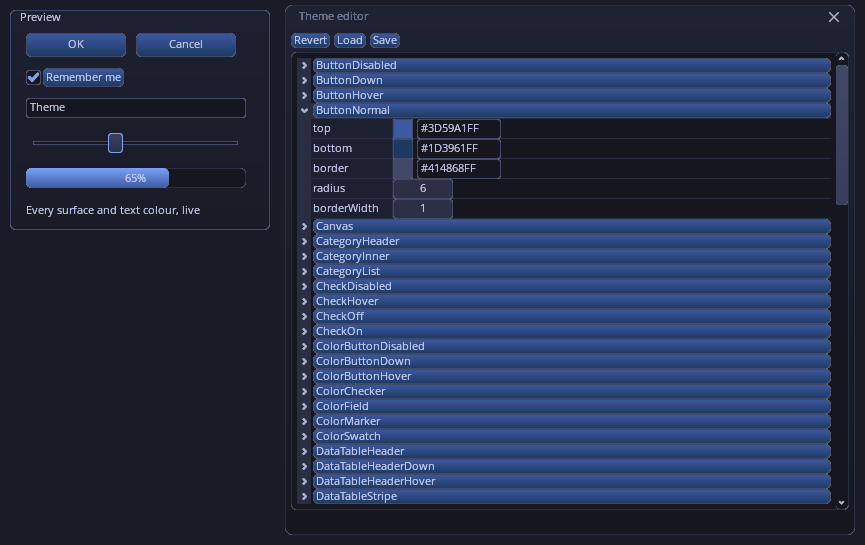
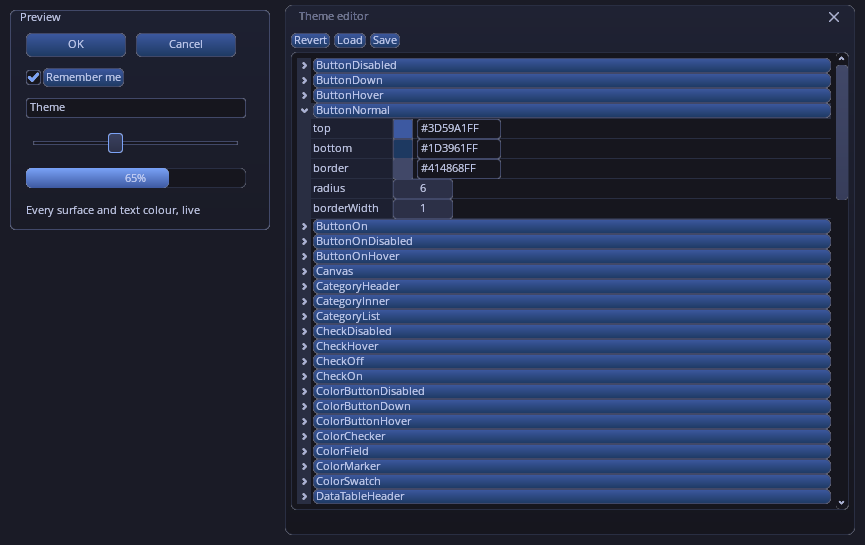
Textured Button: draw an on toggle with ButtonOn / ButtonOnHover / ButtonOnDisabled
ButtonTemplate<>::update never read the toggle state, so an on toggle
painted ButtonNormal, as an off one does. It now picks, in order:
disabled (ButtonOnDisabled when on), pressed (ButtonDown), on
(ButtonOnHover when hovered), hovered, normal. On means isToggle() &&
getToggleState(), so plain buttons and LabelClickable are unchanged.

The three surfaces are registered in surfaceRegistry(), so a theme can
set them and strict mode reports them. ThemeEditorDemo's sample lists
them (regenerated); every other sample is unchanged.

Changed region(s): [[0.3746, 0.4055, 0.4994, 0.9358], [0.9676, 0.3431, 0.9988, 0.3743]]

diff --git a/include/gweni/skins/textured/tokyoNight.h b/include/gweni/skins/textured/tokyoNight.h
@@ -84,6 +84,11 @@ inline Surface ButtonNormal   { SurfHi,                Surf,                  Li
 inline Surface ButtonHover    { SurfHover,             SurfHi,                Blue,  Radius, BorderW };
 inline Surface ButtonDown     { Surf,                  BgStorm,               Blue,  Radius, BorderW };
 inline Surface ButtonDisabled { BgStorm,               Color(0x1f,0x22,0x33), BgHighlight, Radius, BorderW };
+// A toggle Button that is on: an accent-tinted fill, so it reads unlike a
+// momentary press (ButtonDown); disabled, it stays on, dimmed
+inline Surface ButtonOn         { Color(0x33,0x46,0x7a), Color(0x28,0x34,0x57), Blue,  Radius, BorderW };
+inline Surface ButtonOnHover    { Color(0x3d,0x55,0x94), Color(0x31,0x42,0x6e), Blue,  Radius, BorderW };
+inline Surface ButtonOnDisabled { Color(0x2a,0x35,0x5a), Color(0x22,0x2b,0x47), Color(0x3a,0x4d,0x85), Radius, BorderW };
 
 // Text entry
 inline Surface TextBox        { BgDark,                BgDark,                Line,  RadiusSm, BorderW };
@@ -230,6 +235,7 @@ inline std::unordered_map<std::string, Surface*>& surfaceRegistry()
         {"Window",&Window},{"WindowInact",&WindowInact},{"Panel",&Panel},{"PanelDark",&PanelDark},
         {"GroupBox",&GroupBox},{"Tooltip",&Tooltip},{"StatusBar",&StatusBar},{"Canvas",&Canvas},
         {"ButtonNormal",&ButtonNormal},{"ButtonHover",&ButtonHover},{"ButtonDown",&ButtonDown},{"ButtonDisabled",&ButtonDisabled},
+        {"ButtonOn",&ButtonOn},{"ButtonOnHover",&ButtonOnHover},{"ButtonOnDisabled",&ButtonOnDisabled},
         {"TextBox",&TextBox},{"TextBoxFocus",&TextBoxFocus},{"TextBoxDisabled",&TextBoxDisabled},{"TextSelection",&TextSelection},
         {"Menu",&Menu},{"MenuStrip",&MenuStrip},{"MenuHover",&MenuHover},
         {"TabActive",&TabActive},{"TabInactive",&TabInactive},{"TabControl",&TabControl},

diff --git a/include/gweni/skins/textured/texturedControls.h b/include/gweni/skins/textured/texturedControls.h
@@ -90,11 +90,16 @@ public:
 
         controls::Button *control=static_cast<controls::Button *>(baseControl);
         const tokyonight::Surface *surface;
+        // a toggle that is on keeps its look until a press or disabling it;
+        // a plain button (LabelClickable included) is never on
+        bool on=control->isToggle() && control->getToggleState();
 
         if(control->isDisabled())
-            surface=&tokyonight::ButtonDisabled;
+            surface=on?&tokyonight::ButtonOnDisabled:&tokyonight::ButtonDisabled;
         else if(control->isDepressed())
             surface=&tokyonight::ButtonDown;
+        else if(on)
+            surface=control->isHovered()?&tokyonight::ButtonOnHover:&tokyonight::ButtonOn;
         else if(control->isHovered())
             surface=&tokyonight::ButtonHover;
         else
